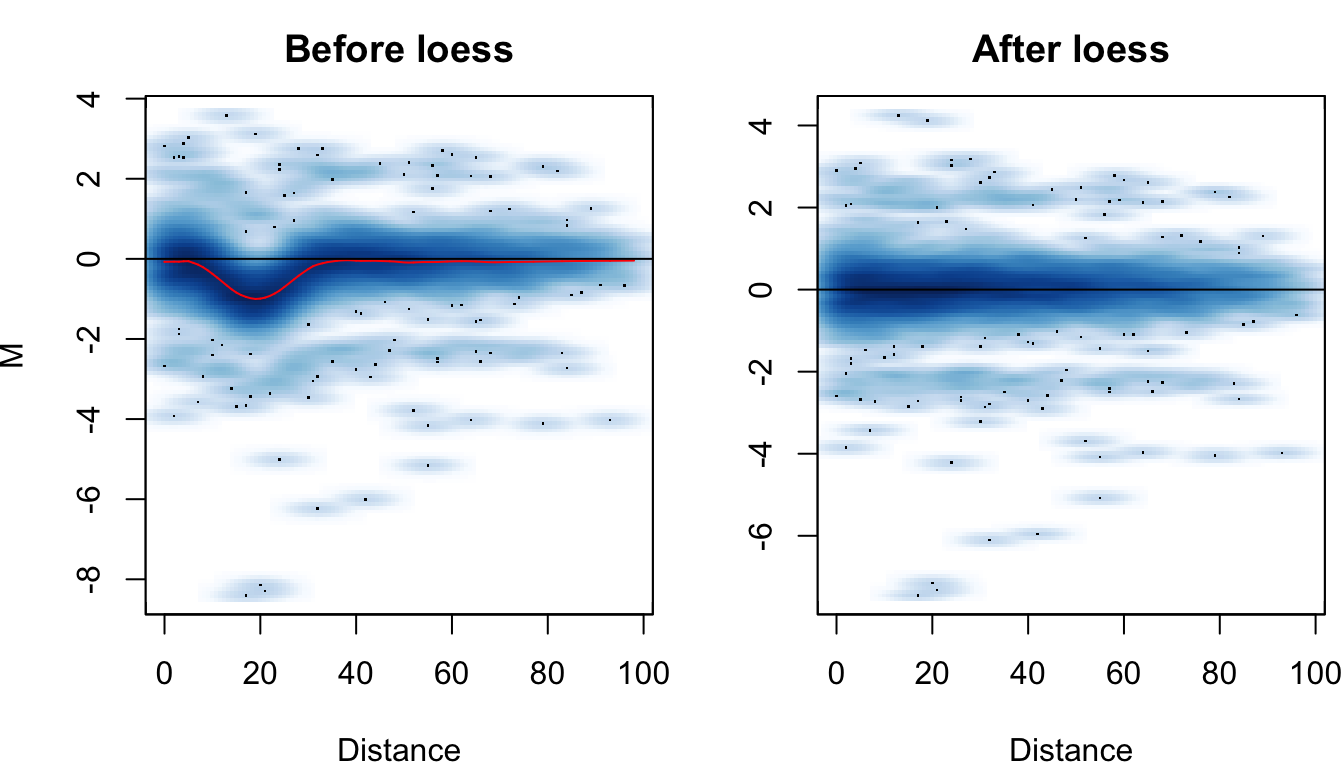
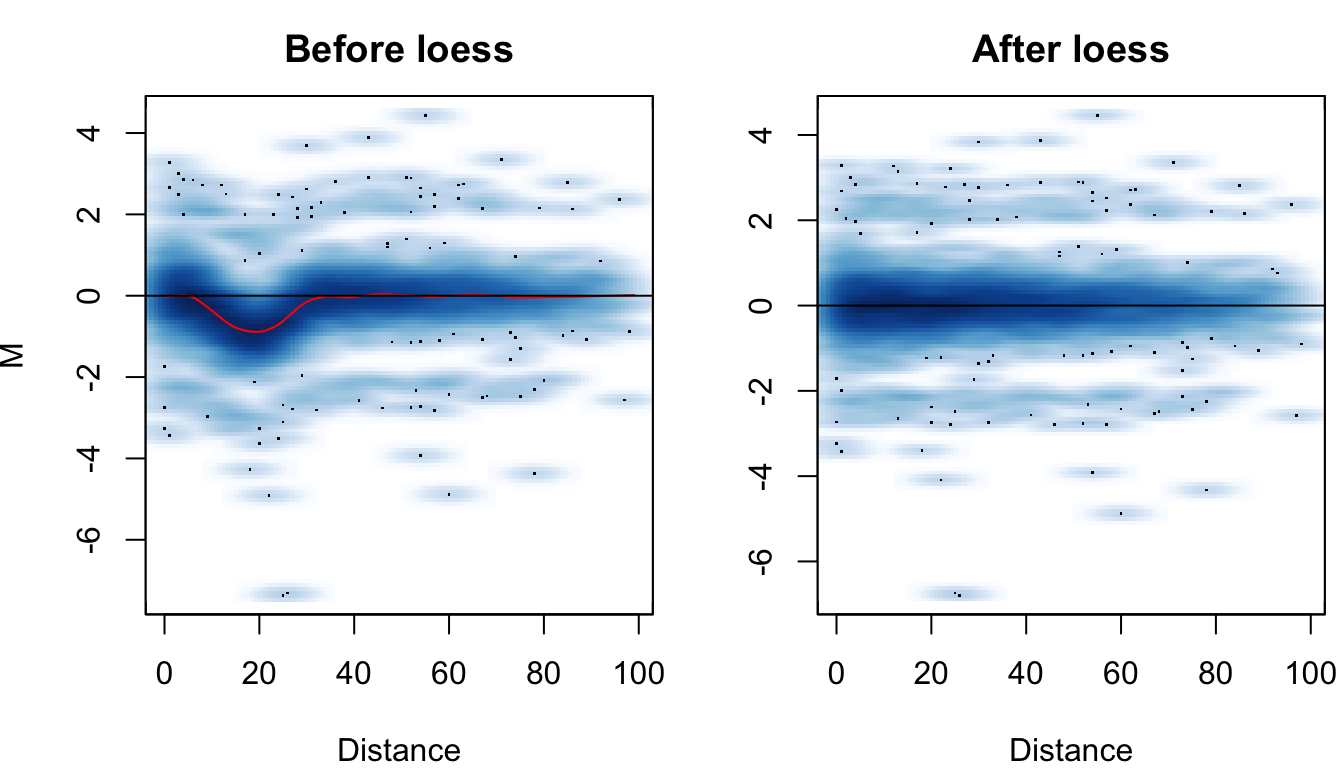
Built site for HiCcompare: 1.11.1@

diff --git a/index.html b/index.html
@@ -95,7 +95,7 @@
 <a href="#overview" class="anchor"></a>Overview</h2>
 <p><code>HiCcompare</code> provides functions for joint normalization and difference detection in multiple Hi-C datasets. <code>HiCcompare</code> operates on processed Hi-C data in the form of chromosome-specific chromatin interaction matrices. <a href="https://bioconductor.org/packages/HiCcompare/">HiCcompare is available on Bioconductor</a>.</p>
 <p>If you have more than two Hi-C datasets, please see our other package, <a href="https://bioconductor.org/packages/multiHiCcompare/">multiHiCcompare</a>.</p>
-<p><code>HiCcompare</code> accepts three-column tab-separated text files storing chromatin interaction matrices in a sparse matrix format which are available from several sources such as the <a href="http://aidenlab.org/data.html">Aiden Lab</a> (<code>.hic</code> files) and the <a href="http://cooler.readthedocs.io/en/latest/index.html">Mirnylab FTP site</a> (<code>.cool</code> files). <code>HiCcompare</code> performs differential chromatin interaction analysis between two biological conditions.</p>
+<p><code>HiCcompare</code> accepts three-column tab-separated text files storing chromatin interaction matrices in a sparse matrix format which are available from several sources such as the <a href="http://aidenlab.org/data.html">Aiden Lab</a> (<code>.hic</code> files) and the <a href="http://cooler.readthedocs.io/en/latest/index.html">Mirnylab FTP site</a> (<code>.cool</code> files). <code>HiCcompare</code> performs differential chromatin interaction analysis between two biological conditions, one Hi-C matrix per condition.</p>
 <p>First, <code>HiCcompare</code> jointly normalizes two Hi-C datasets to remove biases between them. Then, it can detect significant differences between the datasets using a genomic distance-stratified permutation test. The novel concept of the MD plot, based on the commonly used MA plot or Bland-Altman plot, is the basis for these methods. The log <strong>M</strong>inus (difference) between chromatin interaction frequencies is plotted on the Y-axis. The genomic <strong>D</strong>istance is plotted on the X-axis. The MD plot allows for visualization, normalization, and comparing the differences between the Hi-C datasets in a distance-stratified manner.</p>
 <p>The main functions are:</p>
 <ul>

diff --git a/articles/HiCcompare-vignette.html b/articles/HiCcompare-vignette.html
@@ -766,14 +766,14 @@ Z_i = \frac{M_i - \bar{M}}{\sigma_M}
 
 <span class="kw">sim_results</span> <span class="op">&lt;-</span> <span class="fu"><a href="../reference/hic_simulate.html">hic_simulate</a></span>(nrow = <span class="kw">number_of_unitdistances</span>, medianIF = <span class="fl">50000</span>, sdIF = <span class="fl">14000</span>, powerlaw.alpha = <span class="fl">1.8</span>, fold.change = <span class="fl">4</span>, i.range = <span class="kw">i.range</span>, j.range = <span class="kw">j.range</span>, Plot = <span class="fl">TRUE</span>, alpha = <span class="fl">0.1</span>)
 </pre></div>
-<pre><code>## Span for loess: 0.178135370007652</code></pre>
-<pre><code>## GCV for loess: 0.000110247906904958</code></pre>
-<pre><code>## AIC for loess: 0.353097811035226</code></pre>
-<pre><code>## Filtering out interactions with A &lt; 98</code></pre>
+<pre><code>## Span for loess: 0.141518681203253</code></pre>
+<pre><code>## GCV for loess: 0.00010510600007043</code></pre>
+<pre><code>## AIC for loess: 0.309430862764193</code></pre>
+<pre><code>## Filtering out interactions with A &lt; 100</code></pre>
 <p><img src="HiCcompare-vignette_files/figure-html/unnamed-chunk-21-1.png" width="672"></p>
-<pre><code>## True Positives: 198 Total added differences: 200 True Negatives: 4461</code></pre>
-<pre><code>## TPR: 0.99</code></pre>
-<pre><code>## SPC: 0.986728599867286</code></pre>
+<pre><code>## True Positives: 203 Total added differences: 205 True Negatives: 4458</code></pre>
+<pre><code>## TPR: 0.990243902439024</code></pre>
+<pre><code>## SPC: 0.9843232501656</code></pre>
 <p><img src="HiCcompare-vignette_files/figure-html/unnamed-chunk-21-2.png" width="672"></p>
 <p>The results of the simulation are saved in a list.</p>
 <div class="sourceCode" id="cb41"><pre class="downlit">
